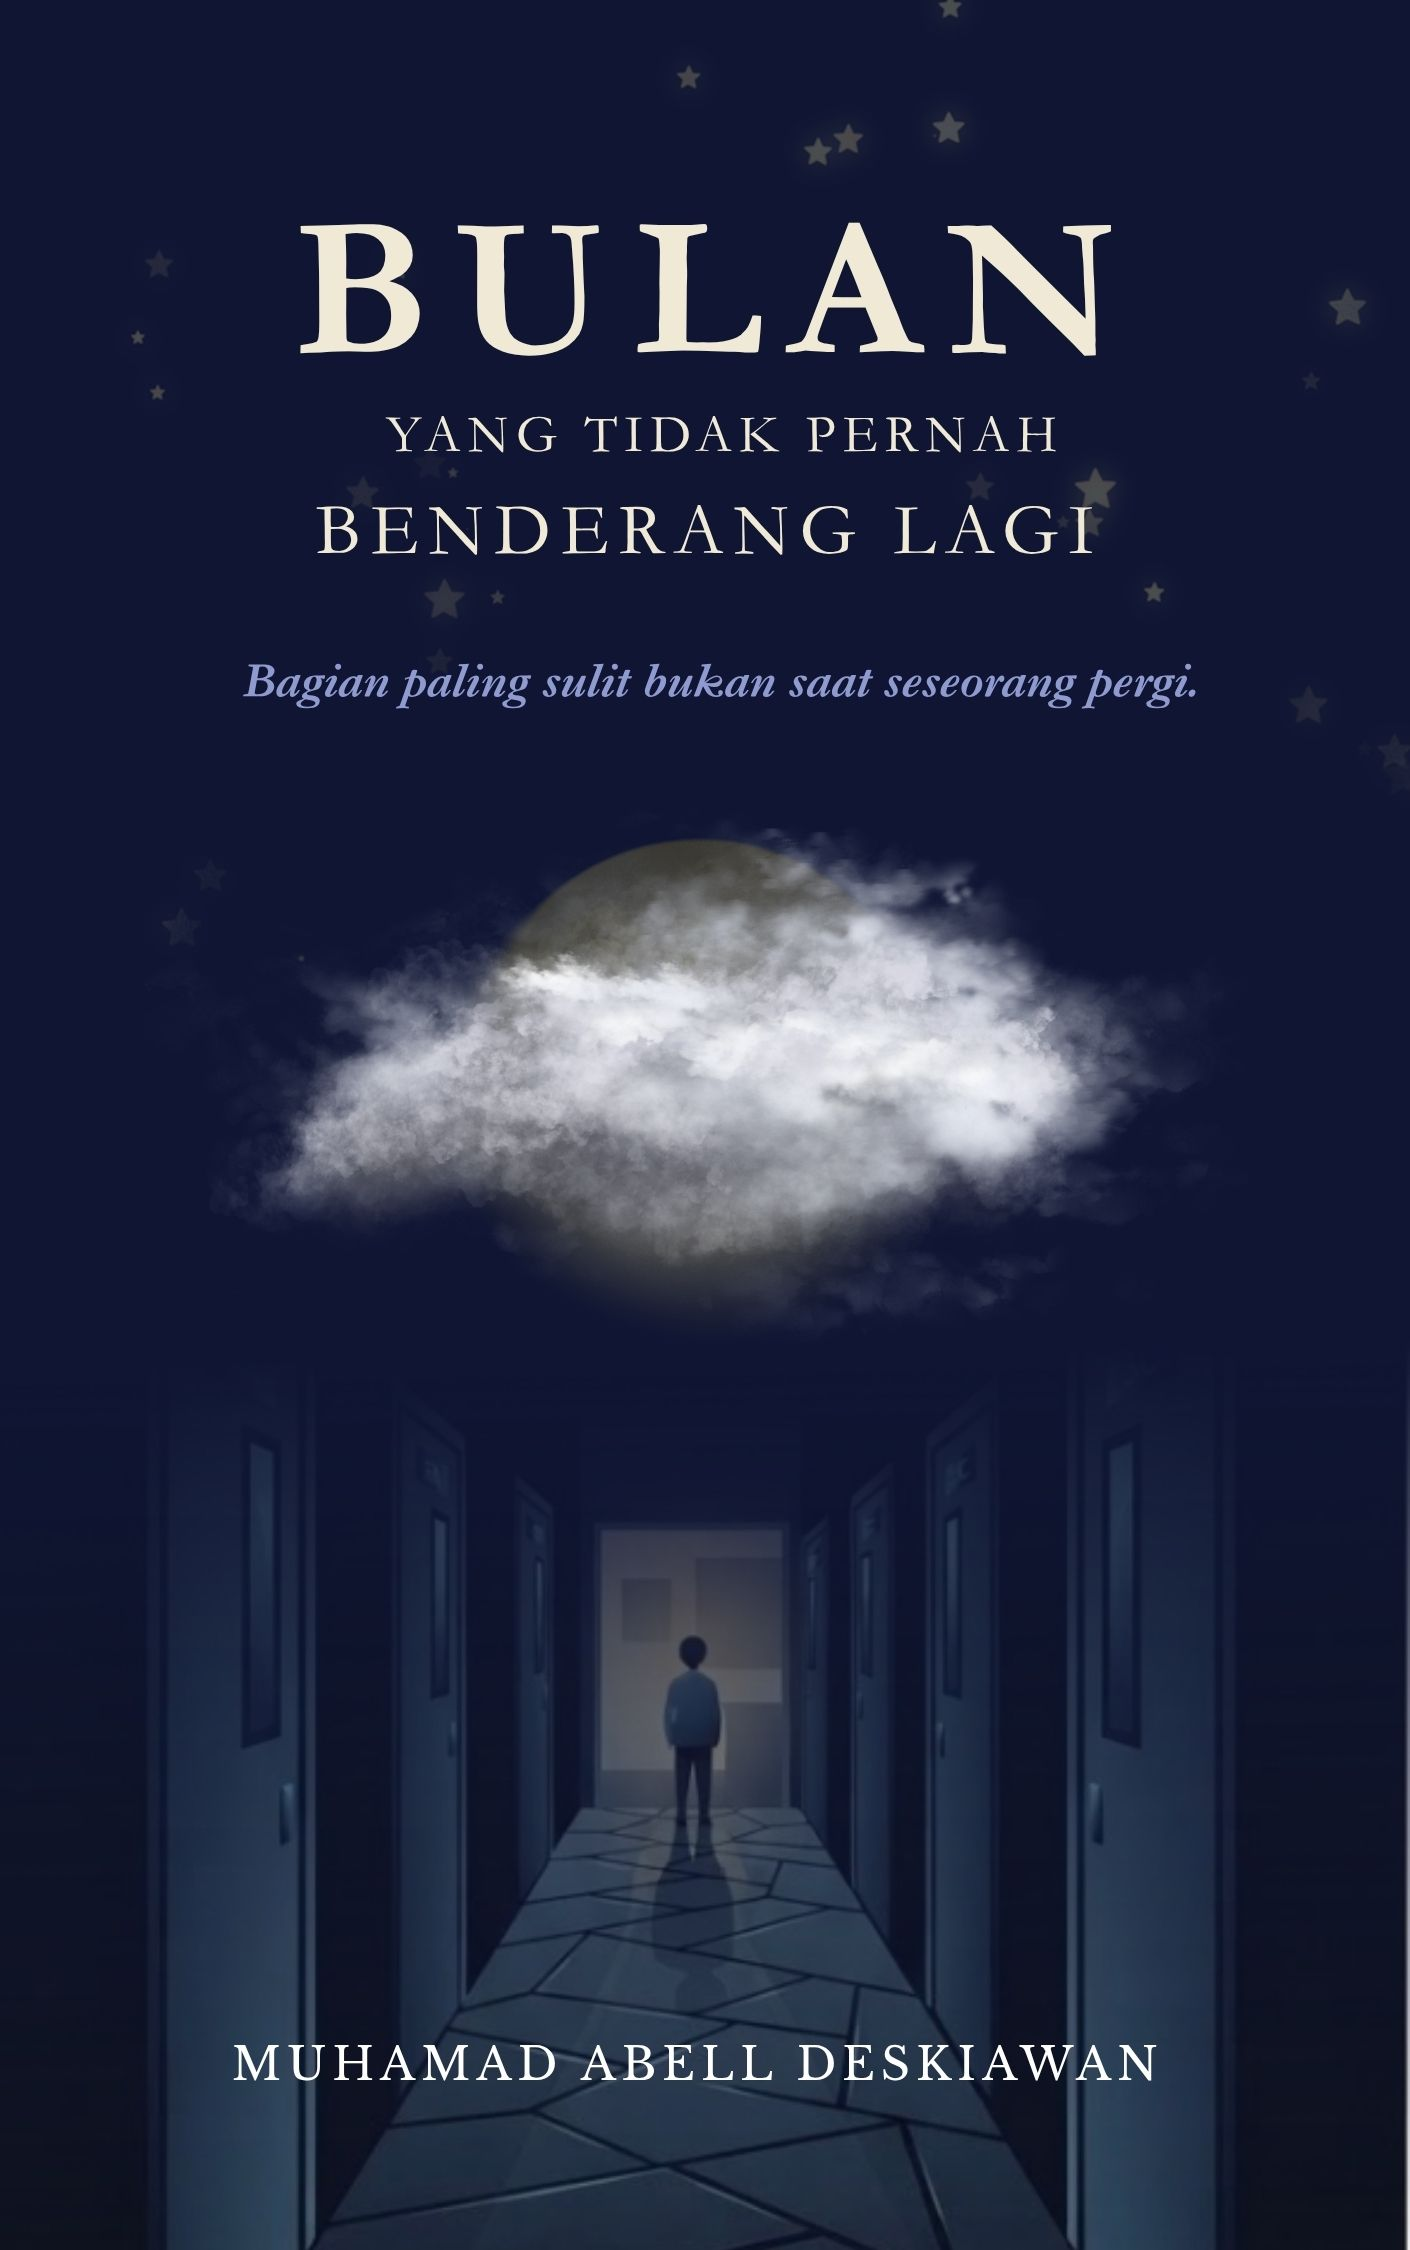
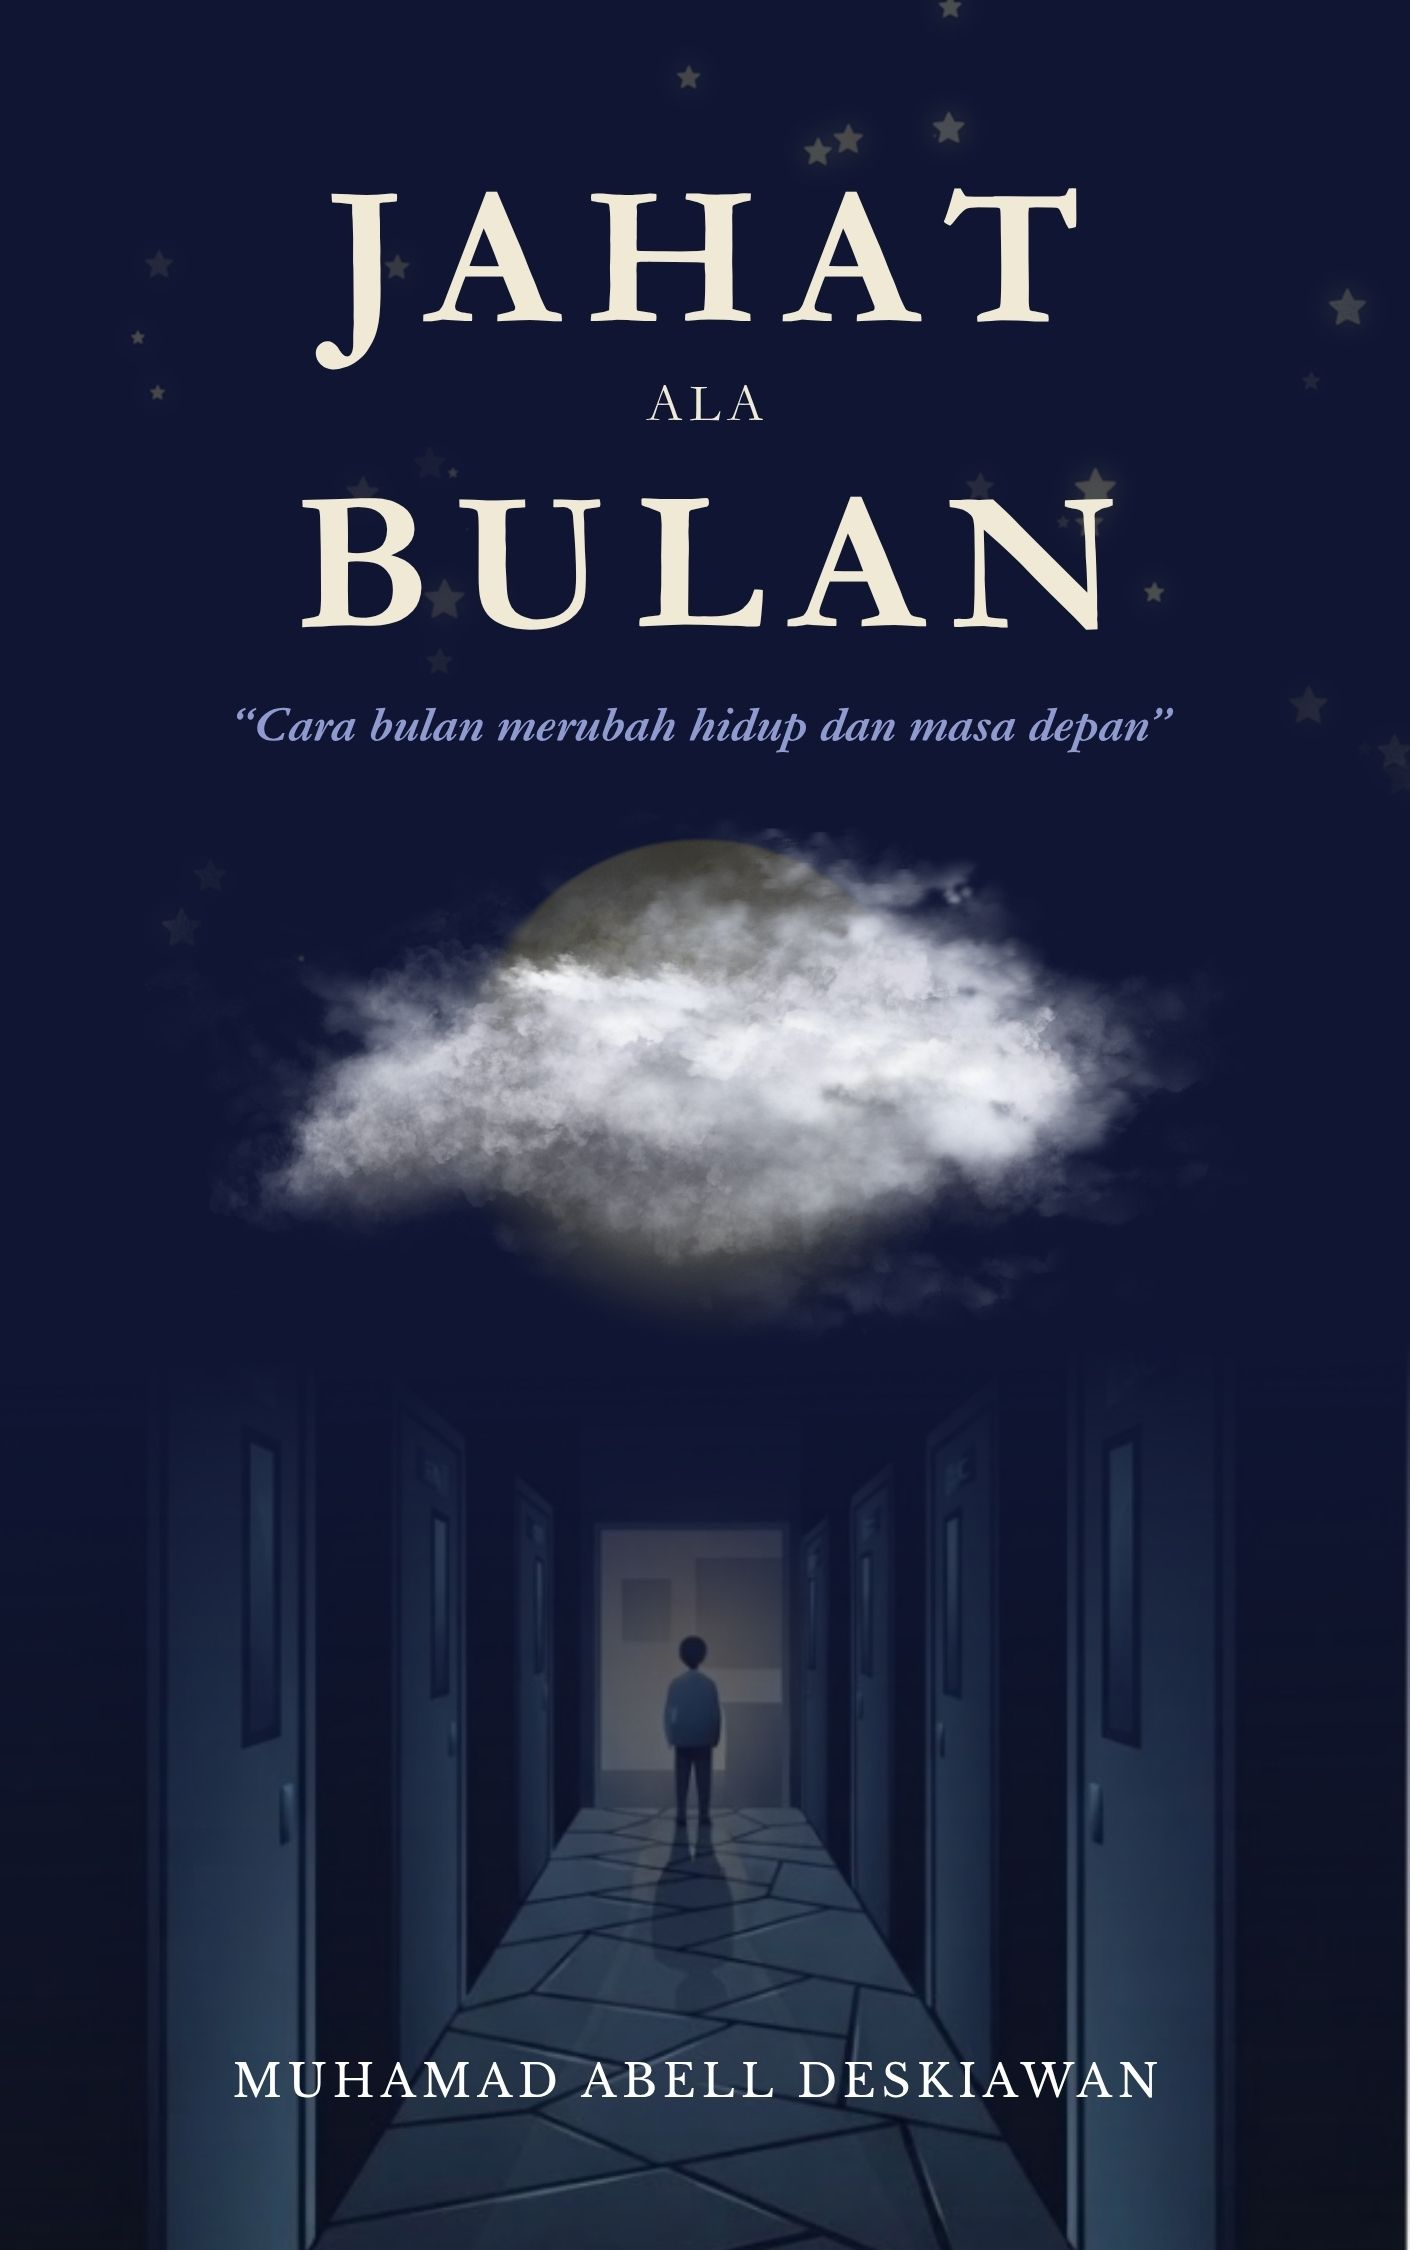
memperbaiki gamon read ganti judul novel

Changed region(s): [[0.156, 0.0622, 0.8426, 0.3422], [0.156, 0.9022, 0.8426, 0.9333], [0.6553, 0.0622, 0.7801, 0.1556]]

diff --git a/gamon-read.html b/gamon-read.html
@@ -4,11 +4,11 @@
     <meta charset="utf-8" />
     <meta name="viewport" content="width=device-width, initial-scale=1" />
 
-    <title>GamonRead — Bulan yang Tidak Pernah Benderang Lagi</title>
+    <title>GamonRead — Jahat Ala Bulan</title>
 
     <meta
         name="description"
-        content="GamonRead — Bulan yang Tidak Pernah Benderang Lagi, sebuah novel tentang cinta pertama, kehilangan, kenangan, dan perjalanan untuk berdamai dengan masa lalu."
+        content="GamonRead — Jahat Ala Bulan, sebuah novel tentang cinta pertama, kehilangan, kenangan, dan perjalanan untuk berdamai dengan masa lalu."
     />
 
     <link rel="icon" type="image/svg+xml" href="image/logo/Gamon%20Tawing.svg" />
@@ -649,11 +649,11 @@
             <!-- COVER -->
 
             <a
-                href="https://www.wattpad.com/myworks/416778116-bulan-yang-tidak-pernah-benderang-lagi"
+                href="https://www.wattpad.com/story/416778116-jahat-ala-bulan"
                 target="_blank"
                 rel="noopener noreferrer"
                 class="book-cover-wrapper"
-                aria-label="Baca Bulan yang Tidak Pernah Benderang Lagi di Wattpad"
+                aria-label="Baca Jahat Ala Bulan di Wattpad"
             >
 
                 <div
@@ -663,7 +663,7 @@
 
                 <img
                     src="assets/cover-buku.jpg"
-                    alt="Cover novel Bulan yang Tidak Pernah Benderang Lagi"
+                    alt="Cover novel Jahat Ala Bulan"
                     class="book-cover"
                 />
 
@@ -684,7 +684,7 @@
                 <!-- Title -->
 
                 <a
-                    href="https://www.wattpad.com/myworks/416778116-bulan-yang-tidak-pernah-benderang-lagi"
+                    href="https://www.wattpad.com/story/416778116-jahat-ala-bulan"
                     target="_blank"
                     rel="noopener noreferrer"
                     class="
@@ -708,9 +708,9 @@
                             group-hover:opacity-80
                         "
                     >
-                        Bulan yang Tidak Pernah
+                        Jahat ala
                         <br class="hidden sm:block" />
-                        Benderang Lagi
+                        Bulan
                     </h1>
 
                 </a>
@@ -846,19 +846,19 @@
                     >
 
                         <span class="book-tag">
-                            Romance
+                            Romansa
                         </span>
 
                         <span class="book-tag">
-                            Teen Fiction
+                            Cinta Pertama
                         </span>
 
                         <span class="book-tag">
-                            Drama
+                            Takdir Cinta
                         </span>
 
                         <span class="book-tag">
-                            Coming of Age
+                            Kesempatan Kedua
                         </span>
 
                     </div>
@@ -924,6 +924,39 @@
                         <span class="book-tag">
                             #MasaLalu
                         </span>
+                        <span class="book-tag">
+                            #Cinta
+                        </span>
+                        <span class="book-tag">
+                            #Drama
+                        </span>
+                        <span class="book-tag">
+                            #Keluarga
+                        </span>
+                        <span class="book-tag">
+                            #Fiksi
+                        </span>
+                        <span class="book-tag">
+                            #Novel
+                        </span>
+                        <span class="book-tag">
+                            #Penyesalan
+                        </span>
+                        <span class="book-tag">
+                            #Remaja
+                        </span>
+                        <span class="book-tag">
+                            #Sekolah
+                        </span>
+                        <span class="book-tag">
+                            #Covid19
+                        </span>
+                        <span class="book-tag">
+                            #Wabah
+                        </span>
+                        <span class="book-tag">
+                            #AutoBiografis
+                        </span>
 
                     </div>
 
@@ -937,7 +970,7 @@
                 >
 
                     <a
-                        href="https://www.wattpad.com/myworks/416778116-bulan-yang-tidak-pernah-benderang-lagi"
+                        href="https://www.wattpad.com/story/416778116-jahat-ala-bulan"
                         target="_blank"
                         rel="noopener noreferrer"
 
